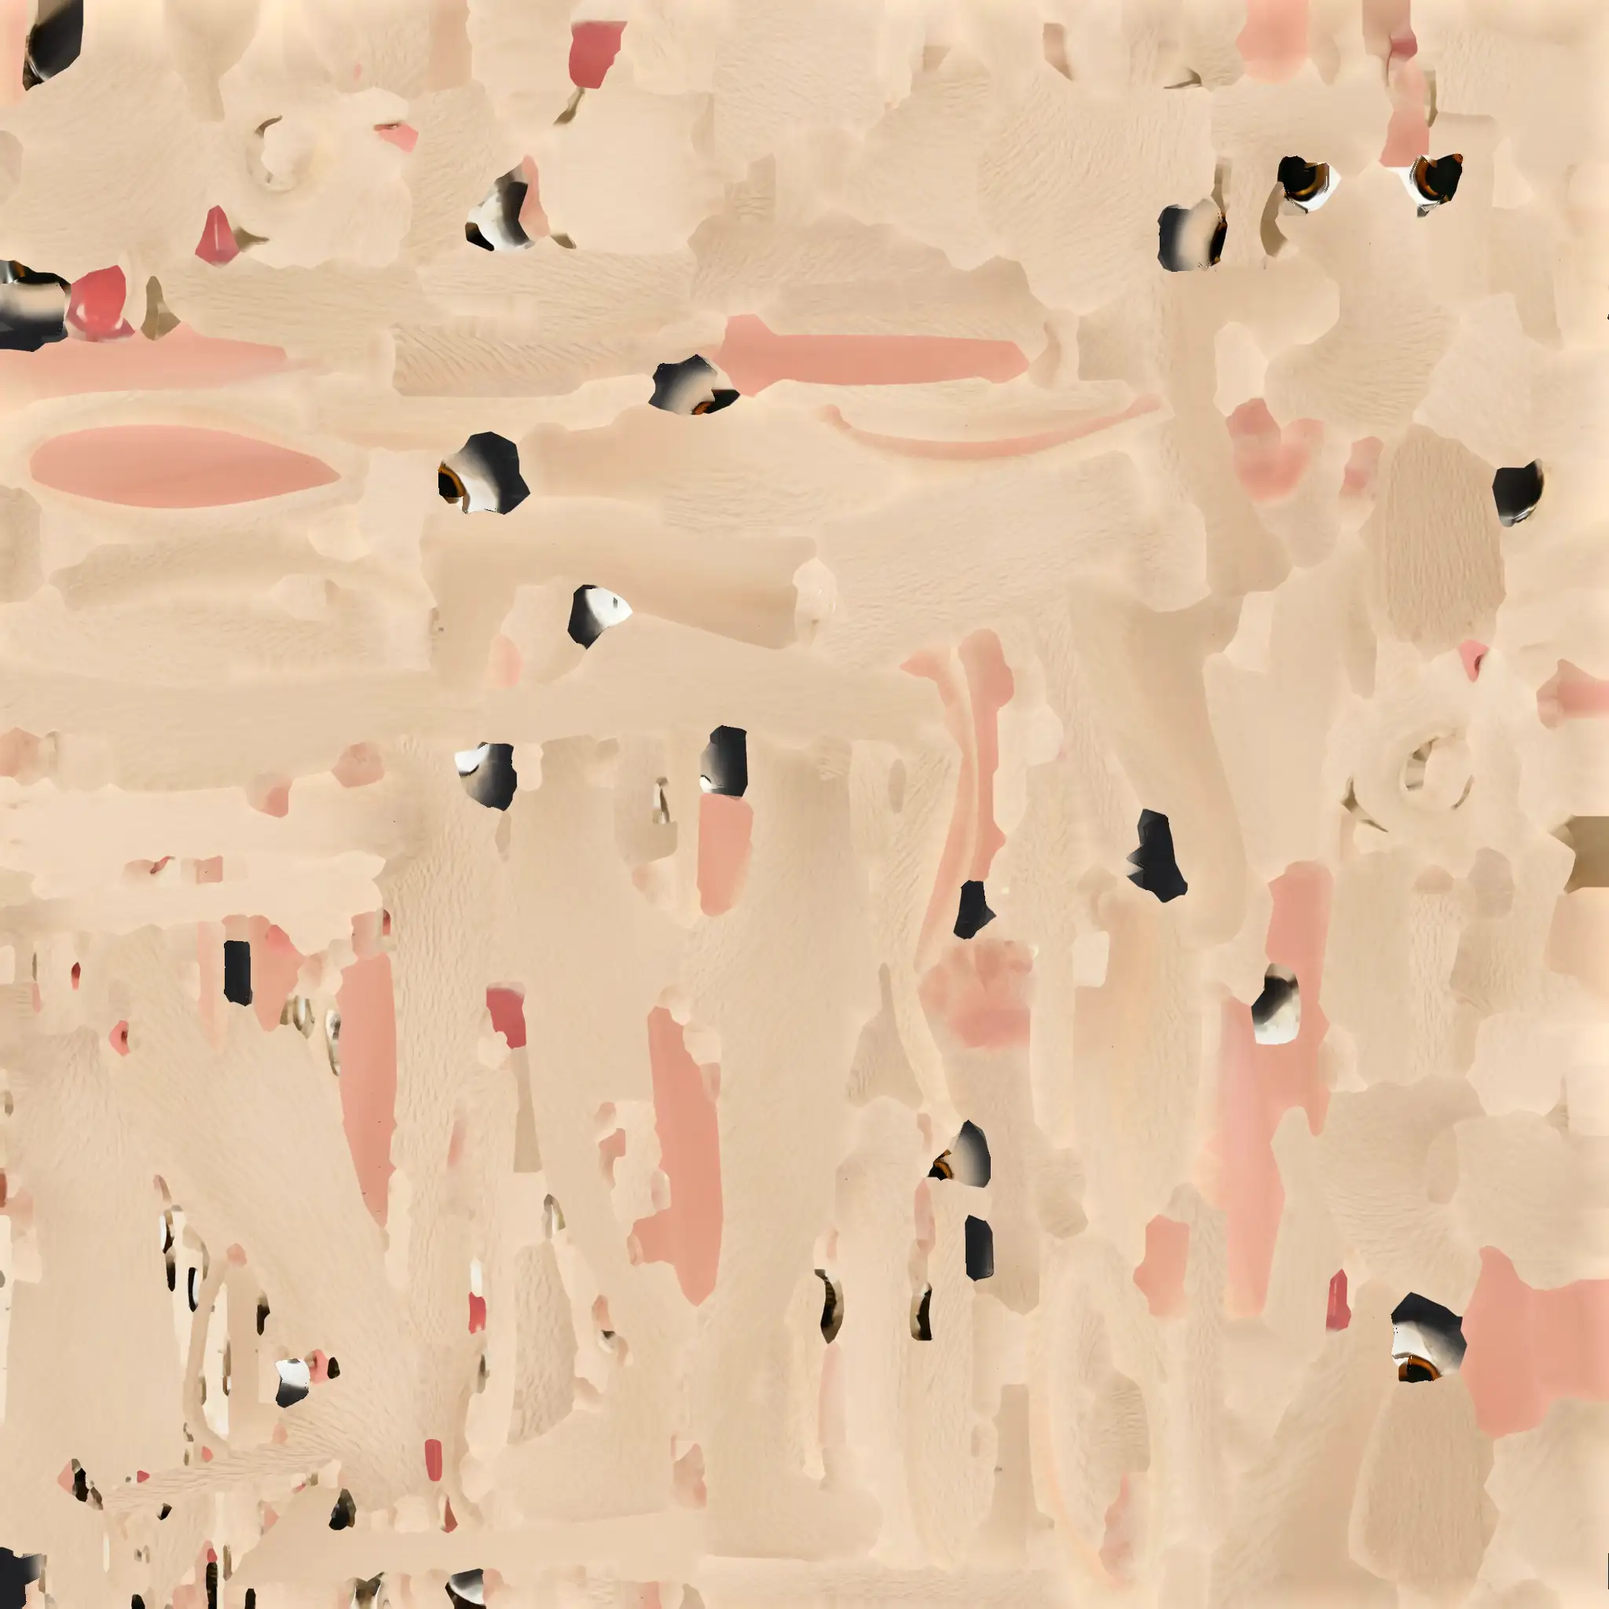
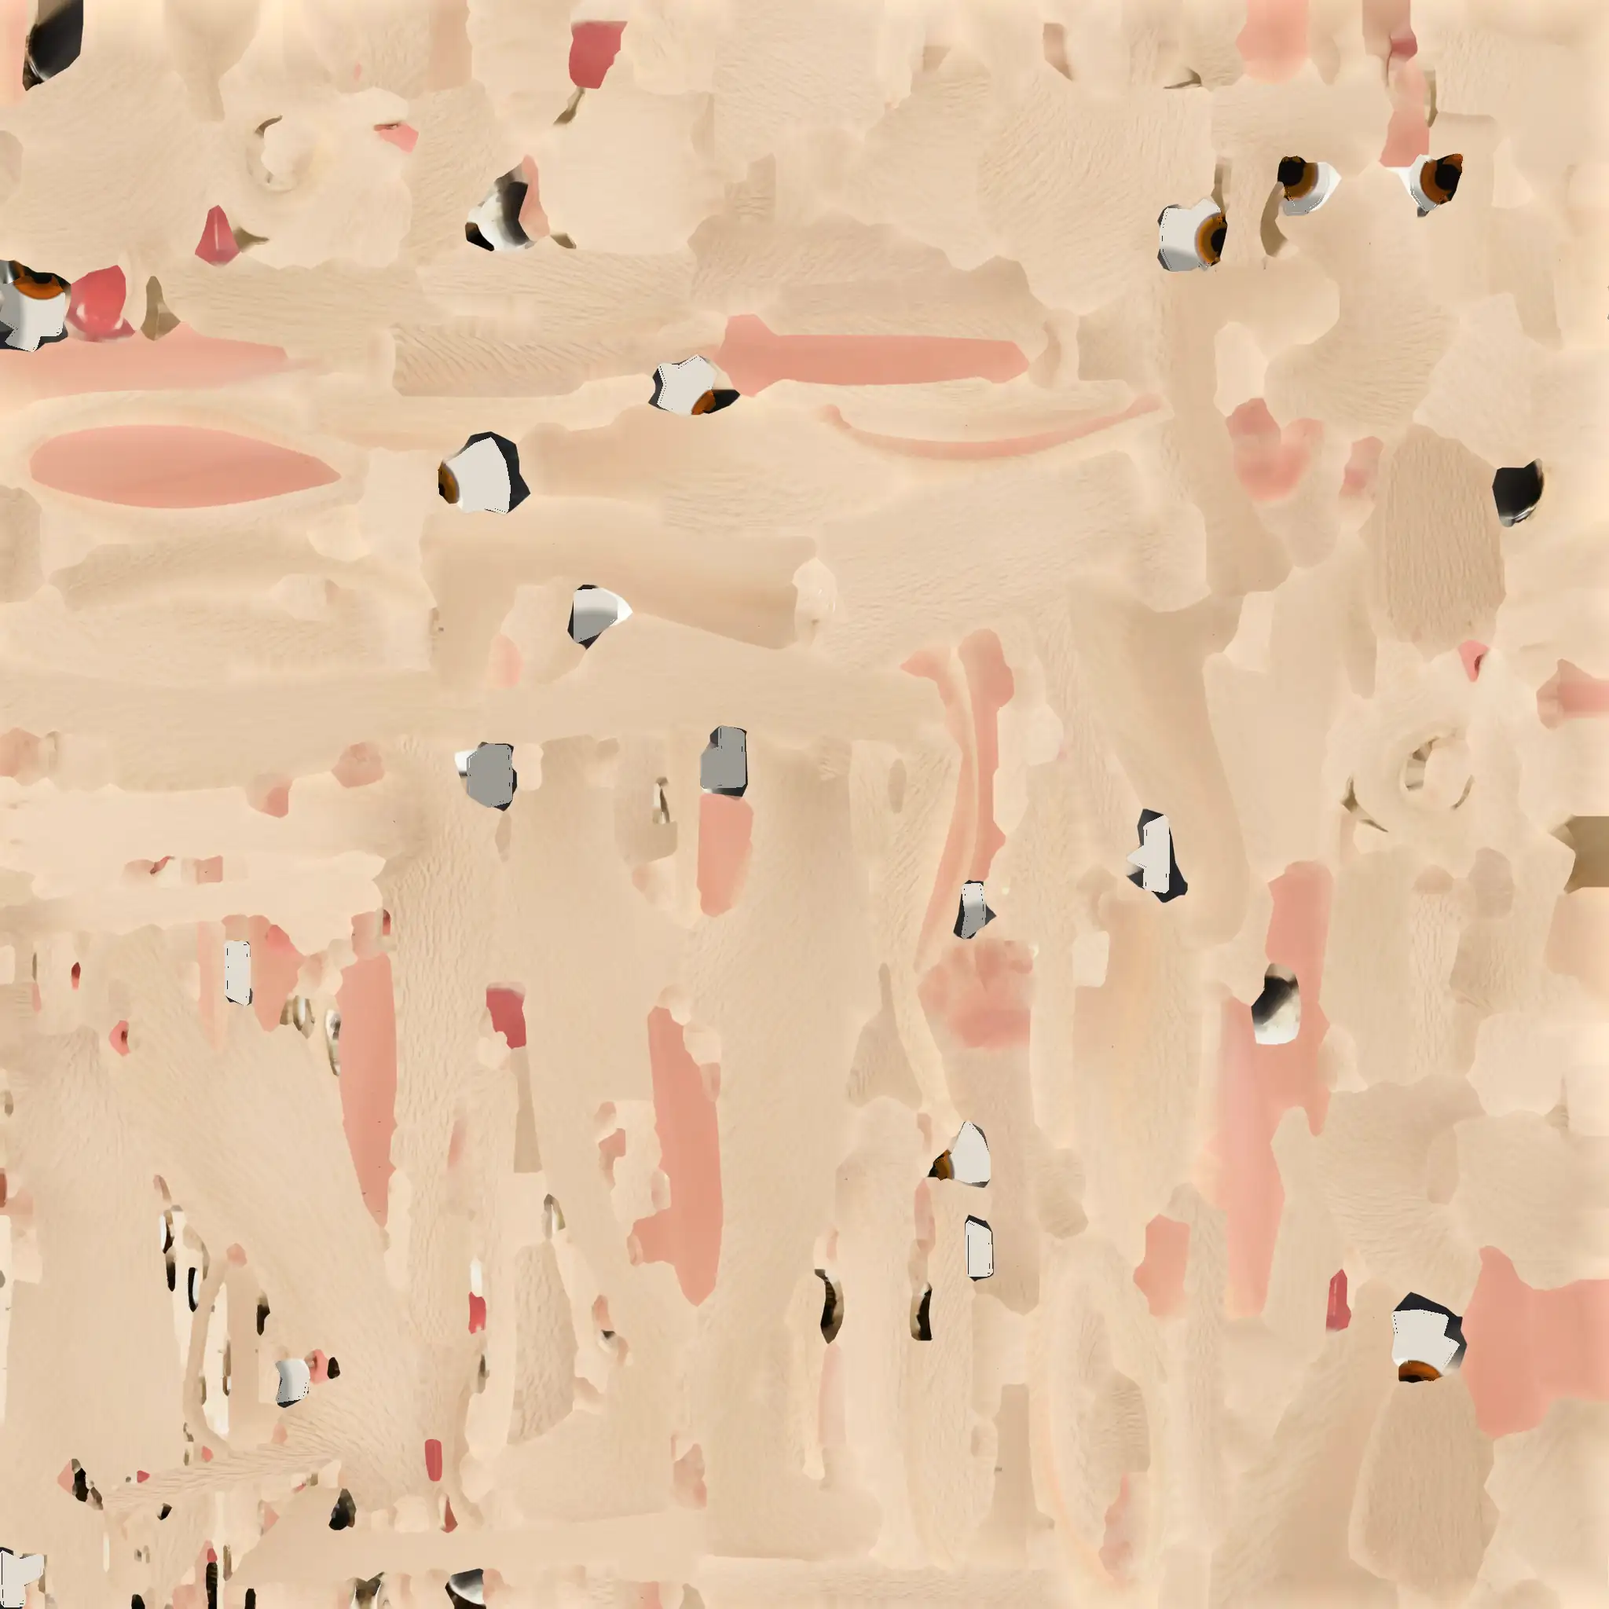
fix(models): paint natural eyes on the new Tripo rabbit
The eyes of the rabbit read as dark glassy balls that look down at the
nose. Cause: the source map paints a large dark iris and pupil low on
each ball, and center_pupils() turned the whole ball, so it kept the
large dark pupil, a full ring of bright white, and the low gaze.
rabbit-maps.py now takes paint_eyes() of the fox map tool: a gaze at
half the angle of the opening across and at the middle of its height,
a brown iris of 0.95 of half the opening height with the radial
texture of the source by rings, a pupil of 0.45 of the iris radius,
soft edges, and an off-white sclera shaded under the upper lid. The
ball takes no painted light, so the eye light of the app gives the one
highlight. Only the color map changes, and the lids stay.

diff --git a/tools/rabbit-maps.py b/tools/rabbit-maps.py
@@ -4,8 +4,8 @@
 # goes to the fur of the rabbit of main in the hall light, and the pink, the brown brows, the
 # white, and the black keep their colors. Each texel takes a mix of the steps of the colors, by its
 # nearness to each color, so the blend between two colors stays smooth. The texels of the eyeballs
-# keep their colors, except the iris and the pupil, which turn on each ball to the middle of the
-# eye opening that the front view shows ("Pupils" of the README). The script reads the triangles,
+# take the paint of a calm, natural eye: a sized iris with the radial texture of the source, a
+# small pupil, and an off-white sclera, looking at the viewer ("Pupils" of the README). The script reads the triangles,
 # the places, and the texture points of the eyeballs from the rig file (`ownEyes` of the export).
 # The normal map `rabbit-normal.webp` holds the tilts of the fur. The output depends only on the
 # input files and on cwebp 1.5.0.
@@ -59,10 +59,37 @@ MIN_CHROMA = 0.02
 EYE_MARGIN = 4
 #: The ball points of the front view with a luma below this value make the pupil.
 PUPIL_LUMA = 50
-#: The place of the middle of each pupil above the middle of the eye opening of the front view,
-#: in opening radii. The head of the violinist drops 10 degrees in the play, and the camera of the
-#: hall looks down at the stage, so a pupil at the middle reads as a look down there.
-PUPIL_LIFT = 0.1
+#: The largest red over blue of a pupil texel: the dark brown that the map leaves on the rest of
+#: the ball has more.
+PUPIL_WARM = 15
+#: The share of the middle angle across of the eye opening that the gaze takes: 0 gives
+#: parallel eyes that look straight ahead, 1 an iris in the middle of each opening.
+GAZE_ACROSS = 0.5
+#: The half width in degrees of the band across the opening about the gaze in which the height
+#: of the opening counts.
+GAZE_BAND = 8.0
+#: The angle in degrees of the gaze above the middle of the opening.
+GAZE_UP = 0.0
+#: The iris radius as a share of half the height of the eye opening of the front view.
+IRIS_FILL = 0.95
+#: The pupil radius as a share of the iris radius.
+PUPIL_SHARE = 0.45
+#: The width of the soft edge of the iris to the sclera, as a share of the iris radius.
+IRIS_SOFT = 0.06
+#: The rings of the radial profile of the iris, and the largest share by which the luma of a
+#: texel of the iris differs from its ring (`paint_eyes()`).
+IRIS_STEPS = 8
+IRIS_STREAK = 0.18
+#: The sRGB colors of the pupil and of the off-white sclera, and the darkest share of the shade of
+#: the sclera under the upper lid.
+PUPIL_COLOR = (14, 10, 9)
+SCLERA = (226, 220, 208)
+SCLERA_SHADE = 0.3
+#: The largest share of the texels of an eyeball that can also lie in the other eyeball.
+EYE_OVERLAP = 0.01
+#: The angle in degrees from the pupil of the front view within which the pupil texels and the
+#: amber texels of the iris of a ball lie.
+IRIS_SEARCH = 40.0
 #: The rounds of the fill of the texels around the eyeball triangles before the turned ball samples
 #: the map, so that a sample at the edge of a texture island takes no color from outside it.
 EYE_FILL = 4
@@ -302,79 +329,188 @@ def ball_colors(rig, faces, c, directions, src):
     return colors, found
 
 
-def center_pupils(rig, image):
-    """Turns the iris and the pupil of each eyeball to the middle of the eye opening of the front
-    view, and gives the new image. The source map paints each iris toward the inner side of its
-    ball, so in the front view each pupil sat at the inner edge of its eye opening, and the rabbit
-    looked cross-eyed. For each side: c is the middle of the sphere of the ball. Rays from the front
-    (along -z: the head of the seated bind faces +z) over a grid find the ball points that show.
-    Their mean in x and y is the middle of the opening, and the ball point there gives the target
-    direction t from c. The ball points that show with a luma below PUPIL_LUMA make the pupil, and
-    the ball point at their mean gives the pupil direction p. The turn R takes p to t, and three
-    rounds of the measure on the turned ball refine it. Each ball texel at the direction d then
-    takes the color of the source ball at the direction R^-1 d."""
-    triangles, positions, points, eyes = rig
-    out = np.asarray(image).astype(np.float64)
+def classes(colors):
+    """Gives the masks of the black pupil (luma below PUPIL_LUMA, and red less than PUPIL_WARM over
+    blue), the amber iris, the white sclera, and the dark brown of the ball that the map leaves
+    unpainted, of a list of sRGB colors."""
+    luma = colors @ [0.2126, 0.7152, 0.0722]
+    warmth = colors[:, 0] - colors[:, 2]
+    top, low = colors.max(axis=1), colors.min(axis=1)
+    sat = (top - low) / np.maximum(top, 1)
+    red, green, blue = colors.T
+    amber = (sat > 0.5) & (top > 120) & (red >= green) & (green > blue)
+    white = (low > 170) & (sat < 0.25)
+    brown = (luma < PUPIL_LUMA) & (warmth >= PUPIL_WARM)
+    return (luma < PUPIL_LUMA) & (warmth < PUPIL_WARM), amber, white, brown
+
+
+def angle_to(a, b):
+    """Gives the angle in degrees between each unit vector of a and the unit vector b."""
+    return np.degrees(np.arccos(np.clip(a @ b, -1, 1)))
+
+
+def smooth(a, b, x):
+    """Gives the smoothstep from 0 at a to 1 at b."""
+    t = np.clip((x - a) / (b - a), 0.0, 1.0)
+    return t * t * (3 - 2 * t)
+
+
+def ball_frame(rig, faces):
+    """Gives the middle c and the radius r of the sphere of a ball, the ball directions that show
+    in the front view (rays along -z: the head of the seated bind faces +z), and the axes of the
+    front: t (+z), u (+y), and e (+x)."""
+    triangles, positions = rig[0], rig[1]
     corners = positions[triangles]
     middles = corners.mean(axis=1)
+    ball = positions[triangles[faces].ravel()]
+    fit = np.linalg.lstsq(np.c_[2 * ball, np.ones(len(ball))], (ball ** 2).sum(1), rcond=None)[0]
+    c = fit[:3]
+    r = float(np.sqrt(fit[3] + c @ c))
+    near = np.flatnonzero(np.linalg.norm(middles - c, axis=1) < 3 * r)
+    gx, gy = np.meshgrid(np.arange(c[0] - 1.6 * r, c[0] + 1.6 * r, RAY_STEP),
+                         np.arange(c[1] - 1.6 * r, c[1] + 1.6 * r, RAY_STEP))
+    origins = np.c_[gx.ravel(), gy.ravel(), np.full(gx.size, c[2] + 1.0)]
+    down = np.tile([0.0, 0.0, -1.0], (len(origins), 1))
+    t_hit, hit, _ = ray_hits(origins, down, corners[near])
+    on_ball = (hit >= 0) & np.isin(near[np.maximum(hit, 0)], faces)
+    shown = origins[on_ball] + t_hit[on_ball, None] * down[on_ball] - c
+    shown /= np.linalg.norm(shown, axis=1)[:, None]
+    return c, r, shown
+
+
+def angles(d, t, u, e):
+    """Gives the angles in degrees of the unit directions d: the elevation above the plane of t and
+    e (toward u), and the turn across from t (toward e) about u."""
+    return np.degrees(np.arcsin(np.clip(d @ u, -1, 1))), np.degrees(np.arctan2(d @ e, d @ t))
+
+
+def iris_profile(colors, d, p):
+    """Gives the angles in degrees from the pupil direction p of the source iris of a ball: the
+    edge of the black pupil (the first step of 1 degree with less than half pupil texels), and the
+    end of the iris (2 degrees before the first step after it with 15 % or more white texels among
+    the painted texels, and at least 6 degrees past the pupil edge)."""
+    pupil, _, white, brown = classes(colors)
+    a = angle_to(d, p)
+    steps = np.arange(int(IRIS_SEARCH))
+
+    def share(mask, k):
+        band = (a >= k) & (a < k + 1) & ~brown
+        return mask[band].mean() if band.any() else 0.0
+
+    pupil_share = np.array([share(pupil, k) for k in steps])
+    white_share = np.array([share(white, k) for k in steps])
+    edge = int(np.argmax(pupil_share < 0.5))
+    end = max(edge + 6, edge + int(np.argmax(white_share[edge:] >= 0.15)) - 2)
+    return float(edge), float(end)
+
+
+def paint_eyes(rig, image):
+    """Paints each eyeball as a calm, natural eye, and gives the new image (the method of
+    `paint_eyes()` of tools/fox-maps.py). The source map paints a large dark iris and pupil low on
+    each ball, and the turn of the whole ball (the old center_pupils()) kept them. In the app the
+    eyes read as dark glassy balls that look down at the nose. For each side (c, r, and the front axes t, u, e of
+    `ball_frame()`), from the ball points that show in the front view:
+    - The gaze g: GAZE_ACROSS of the middle angle across of the opening (lam of `angles()`), and
+      the middle elevation of the opening within GAZE_BAND degrees of that angle, GAZE_UP degrees
+      up, so that both eyes look at the viewer nearly parallel.
+    - The iris radius a: IRIS_FILL of half the height of the opening there, so that the iris
+      fills most of the opening and its top lies a little under the upper lid.
+    - A texel at the angle b from g and the turn phi about g: a pupil of PUPIL_SHARE of the iris
+      radius with a soft edge, the iris from there to a, and a soft edge of IRIS_SOFT of a to the
+      sclera. The iris takes the source color of the same ball at the same phi about the source
+      pupil, at the angle from the end of the source pupil to the end of its iris, by the share
+      across the new iris. A dark texel of it takes the dark amber. Then each texel takes the
+      median color of its ring of the iris, with its own streak of light or shade.
+    - The sclera: SCLERA, shaded by SCLERA_SHADE under the upper edge of the opening.
+    The ball takes no painted light: the eye light of the app gives one highlight in both eyes."""
+    triangles, positions, points, eyes = rig[:4]
+    out = np.asarray(image).astype(np.float64)
     taken = np.zeros((SIZE, SIZE), bool)
     texels = {}
     for side in ('L', 'R'):
         ys, xs, places = eye_texels(rig, np.array(eyes[side]['faces']))
-        if (taken[ys, xs]).any():
-            sys.exit('The texels of the two eyeballs overlap, so no pupil can turn alone.')
+        if taken[ys, xs].sum() > EYE_OVERLAP * len(ys):
+            sys.exit('The texels of the two eyeballs overlap, so no eye can take its own paint.')
         taken[ys, xs] = True
         texels[side] = (ys, xs, places)
     src = fill_around(out, taken)
+    sclera = np.array(SCLERA, float)
     for side in ('L', 'R'):
         faces = np.array(eyes[side]['faces'])
-        ball = positions[triangles[faces].ravel()]
-        fit = np.linalg.lstsq(np.c_[2 * ball, np.ones(len(ball))], (ball ** 2).sum(1), rcond=None)[0]
-        c = fit[:3]
-        r = float(np.sqrt(fit[3] + c @ c))
-        near = np.flatnonzero(np.linalg.norm(middles - c, axis=1) < 3 * r)
-        gx, gy = np.meshgrid(np.arange(c[0] - 1.6 * r, c[0] + 1.6 * r, RAY_STEP),
-                             np.arange(c[1] - 1.6 * r, c[1] + 1.6 * r, RAY_STEP))
-        origins = np.c_[gx.ravel(), gy.ravel(), np.full(gx.size, c[2] + 1.0)]
-        down = np.tile([0.0, 0.0, -1.0], (len(origins), 1))
-        t_hit, hit, _ = ray_hits(origins, down, corners[near])
-        on_ball = (hit >= 0) & np.isin(near[np.maximum(hit, 0)], faces)
-        shown = origins[on_ball] + t_hit[on_ball, None] * down[on_ball]
-        middle = shown[:, :2].mean(axis=0)
-        radius = np.sqrt(len(shown) * RAY_STEP ** 2 / np.pi)
-        seen = shown - c
-        seen /= np.linalg.norm(seen, axis=1)[:, None]
-        goal = middle + [0.0, PUPIL_LIFT * radius]
-        target = seen[np.argmin(np.linalg.norm(shown[:, :2] - goal, axis=1))]
-
-        def pupil_of(turn):
-            colors, found = ball_colors(rig, faces, c, seen @ turn, src)
-            dark = found & (colors @ [0.2126, 0.7152, 0.0722] < PUPIL_LUMA)
-            spot = shown[dark, :2].mean(axis=0)
-            return seen[np.argmin(np.linalg.norm(shown[:, :2] - spot, axis=1))], spot
-
-        turn = np.eye(3)
-        first = pupil_of(turn)[1]
-        for _ in range(3):
-            pupil, _ = pupil_of(turn)
-            turn = turn_matrix(pupil, target) @ turn
-        last = pupil_of(turn)[1]
+        c, r, shown = ball_frame(rig, faces)
+        t, u, e = np.array([0.0, 0, 1]), np.array([0.0, 1, 0]), np.array([1.0, 0, 0])
+        psi, lam = angles(shown, t, u, e)
+        mid_lam = (lam.min() + lam.max()) / 2
+        # The height of the opening where the gaze crosses it.
+        band = np.abs(lam - GAZE_ACROSS * mid_lam) < GAZE_BAND
+        psi = psi[band]
+        mid_psi = (psi.min() + psi.max()) / 2
+        gp, gl = np.radians(mid_psi + GAZE_UP), np.radians(GAZE_ACROSS * mid_lam)
+        g = np.array([np.sin(gl) * np.cos(gp), np.sin(gp), np.cos(gl) * np.cos(gp)])
+        gu = u - (u @ g) * g
+        gu /= np.linalg.norm(gu)
+        ge = np.cross(gu, g)
+        a = IRIS_FILL * (psi.max() - psi.min()) / 2
         ys, xs, places = texels[side]
-        directions = places - c
-        directions /= np.linalg.norm(directions, axis=1)[:, None]
-        colors, found = ball_colors(rig, faces, c, directions @ turn, src)
-        out[ys[found], xs[found]] = colors[found]
-        angle = np.degrees(np.arccos(np.clip((np.trace(turn) - 1) / 2, -1, 1)))
-        show = lambda p: np.round((p - middle) / radius, 3).tolist()
-        print(f'pupil {side}: in the front view, the middle of the pupil lay {show(first)} opening '
-              f'radii (x, y) from the middle of the opening, now {show(last)}; the iris turns '
-              f'{angle:.1f} degrees ({int(found.sum())} of {len(ys)} ball texels)')
-    # The padding texels around the ball islands, outside each triangle of the mesh, take the
-    # turned colors of the ball, so that a sample at the edge of an island shows no old pupil.
+        d = places - c
+        d /= np.linalg.norm(d, axis=1)[:, None]
+        old = src[ys, xs]
+        # The source pupil: the mean of the black texels near the pupil of the front view, by a
+        # mean shift, as the dark lines around the painted eye are black too.
+        pupil, amber, _, _ = classes(old)
+        seen_colors, _ = ball_colors(rig, faces, c, shown, src)
+        p = shown[classes(seen_colors)[0]].mean(axis=0)
+        p /= np.linalg.norm(p)
+        for _ in range(8):
+            near = pupil & (angle_to(d, p) < 15)
+            p = d[near].mean(axis=0)
+            p /= np.linalg.norm(p)
+        edge, end = iris_profile(old, d, p)
+        pu = u - (u @ p) * p
+        pu /= np.linalg.norm(pu)
+        pe = np.cross(pu, p)
+        dark_amber = np.median(old[amber & (angle_to(d, p) < end)], axis=0) * 0.6
+        b = angle_to(d, g)
+        phi = np.arctan2(d @ gu, d @ ge)
+        share = np.clip((b / a - PUPIL_SHARE) / (1 - PUPIL_SHARE), 0, 1)
+        src_angle = np.radians(edge + 1 + share * (end - edge - 1))
+        look = (np.cos(src_angle)[:, None] * p + np.sin(src_angle)[:, None]
+                * (np.cos(phi)[:, None] * pe + np.sin(phi)[:, None] * pu))
+        iris, found = ball_colors(rig, faces, c, look, src)
+        luma = iris @ [0.2126, 0.7152, 0.0722]
+        iris[~found | (luma < 60)] = dark_amber
+        # The radial texture: the median color of each of IRIS_STEPS rings of the new iris, times
+        # the luma of each texel over the luma of its ring, held to 1 +- IRIS_STREAK. Thus the
+        # streaks of the source stay, and a dark smear or a seam of the source does not.
+        ring = np.minimum((share * IRIS_STEPS).astype(int), IRIS_STEPS - 1)
+        inner = b < a * (1 + IRIS_SOFT)
+        profile = np.array([np.median(iris[inner & (ring == k)], axis=0) if (inner & (ring == k)).any()
+                            else dark_amber for k in range(IRIS_STEPS)])
+        luma = iris @ [0.2126, 0.7152, 0.0722]
+        base = profile[ring]
+        ratio = np.clip(luma / np.maximum(base @ [0.2126, 0.7152, 0.0722], 1), 1 - IRIS_STREAK,
+                        1 + IRIS_STREAK)
+        iris = base * ratio[:, None]
+        pupil_w = 1 - smooth(PUPIL_SHARE - 0.05, PUPIL_SHARE + 0.03, b / a)
+        color = iris * (1 - pupil_w[:, None]) + np.array(PUPIL_COLOR, float) * pupil_w[:, None]
+        # A slightly darker rim of the iris, then a soft step to the sclera.
+        rim = smooth(1 - 2 * IRIS_SOFT, 1, b / a)
+        color = color * (1 - 0.25 * rim[:, None])
+        psi_d, _ = angles(d, t, u, e)
+        shade = 1 - SCLERA_SHADE * smooth(psi.max() - 14, psi.max(), psi_d)
+        white = sclera * shade[:, None]
+        to_white = smooth(1 - IRIS_SOFT, 1 + IRIS_SOFT, b / a)
+        color = color * (1 - to_white[:, None]) + white * to_white[:, None]
+        out[ys, xs] = color
+        print(f'eye {side}: opening elevation {psi.min():.1f} to {psi.max():.1f} at the gaze, across {lam.min():.1f} to '
+              f'{lam.max():.1f} degrees; gaze psi {mid_psi + GAZE_UP:.1f}, lam '
+              f'{GAZE_ACROSS * mid_lam:.1f}; iris radius {a:.1f} degrees; source pupil edge {edge:.0f}, '
+              f'amber end {end:.0f} degrees')
+    # The padding texels around the ball islands take the new colors of the ball next to them.
     mask = Image.new('L', (SIZE, SIZE), 0)
     draw = ImageDraw.Draw(mask)
     for tri in triangles:
-        draw.polygon([(float(u) * SIZE, float(v) * SIZE) for u, v in points[tri]], fill=255)
+        draw.polygon([(float(x) * SIZE, float(y) * SIZE) for x, y in points[tri]], fill=255)
     padding = ~(np.asarray(mask) > 0) & ~taken
     filled = fill_around(out, taken)
     out[padding] = filled[padding]
@@ -384,7 +520,7 @@ def center_pupils(rig, image):
 def write_color_map():
     image = Image.open(SOURCE).convert('RGB').resize((SIZE, SIZE), Image.LANCZOS)
     rig = read_rig(RIG)
-    image = center_pupils(rig, image)
+    image = paint_eyes(rig, image)
     lab = oklab(linear(np.asarray(image)))
     eyes, count = eye_mask(rig, SIZE)
     moved = move_texels(lab)
